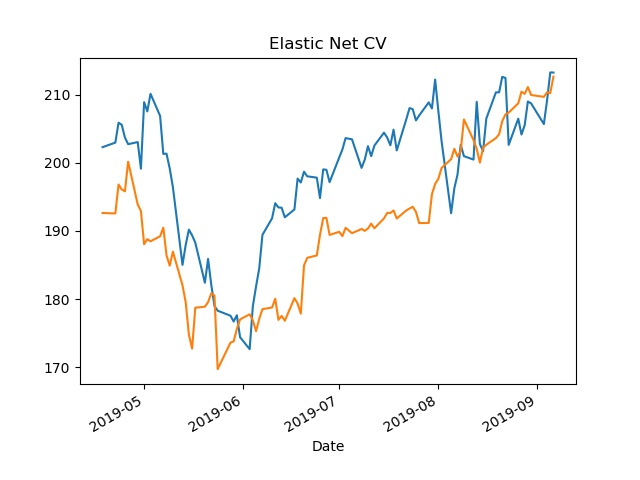
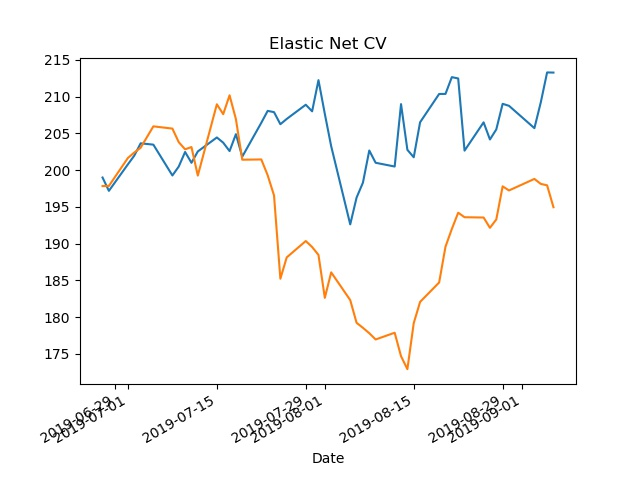
Improve training results
Changes:
- Assign the next day's Adj Price as a label instead of one from the
    future

diff --git a/comparison.py b/comparison.py
@@ -9,6 +9,7 @@ from sklearn.kernel_ridge import KernelRidge
 from sklearn.neighbors import KNeighborsRegressor
 from sklearn.model_selection import train_test_split
 from sklearn.metrics import mean_absolute_error, mean_squared_error
+from operator import itemgetter
 
 df = pd.read_csv('./data/AAPL.csv', index_col='Date', parse_dates=True)
 
@@ -50,43 +51,24 @@ df_regularized.dropna(inplace=True)
 # plt.legend()
 # plt.show()
 
-# Data for forecast:
-forecast_rows = math.ceil(0.01 * len(df_regularized))
-# print('\nTest rows: ', forecast_rows, ' out of: ', len(df_regularized))
-
+DAYS_TO_FORECAST = 50  # Last N days to predict based on historical data
 FORECASTING_COLUMN = 'Adj Close'
-df_regularized['label'] = df_regularized[FORECASTING_COLUMN].shift(-forecast_rows)
+df_regularized['label'] = df_regularized[FORECASTING_COLUMN].shift(-1)
 
-# Remove empty values after shifting the column data
-df_regularized_forecast = df_regularized.copy()
+df_regularized_train = df_regularized.copy()
+df_regularized_train.dropna(inplace=True)
 
-# Display the head
-# print('df_regularized:\n', df_regularized.head())
-
-# drop - returns all columns except specified ones in the list
-X = np.array(df_regularized.drop(['label'], 'columns'))
+X = np.array(df_regularized_train.drop(['label'], 'columns'))
 # Rescale X for regression
 X = scale(X)
-X = X[:-forecast_rows]
-X_forecast = X[-forecast_rows:]
+X = X[:-DAYS_TO_FORECAST]
+y = np.array(df_regularized_train['label'][:-DAYS_TO_FORECAST])
 
-df_regularized.dropna(inplace=True)
-
-# Assign labels
-y = np.array(df_regularized['label'])
-
-# Display first 10 Xs (independent variable) and ys (dependent variable)
-# print('X: ', X[:40])
-# print('y: ', y[:10])
-# print('df_regularized:\n', df_regularized.head())
+# Prepare data for forecasting
+X_forecast = X[-DAYS_TO_FORECAST:]
 
 # Split data into train & test
 X_train, X_test, y_train, y_test = train_test_split(X, y, test_size=.1)
-
-# Verify the data
-# print('X train: ', X_train.shape, X_train[:10])
-# print('is X train finite: ', np.isfinite(X_train).all())
-# print('is y train finite: ', np.isfinite(y_train).all())
 
 models_summary = []
 
@@ -94,23 +76,23 @@ models_summary = []
 def evaluate_model(model_name, model):
     model.fit(X_train, y_train)
 
-    # Display confidence
+    # Get confidence
     model_confidence = model.score(X_test, y_test)
 
-    # Prediction
+    # Get forecast
     y_forecast = model.predict(X_forecast)
 
     # Assign default NaN predictions
-    model_df_regularized_forecast = df_regularized_forecast.copy()
+    model_df_regularized_forecast = df_regularized.copy()
     model_df_regularized_forecast['Forecast'] = np.nan
 
     for idx, y_f in enumerate(y_forecast):
-        model_df_regularized_forecast.iloc[-forecast_rows + idx] = list(
-            model_df_regularized_forecast.drop('Forecast', 'columns').iloc[-forecast_rows + idx].values) + [y_f]
+        model_df_regularized_forecast.iloc[-DAYS_TO_FORECAST + idx] = list(
+            model_df_regularized_forecast.drop('Forecast', 'columns').iloc[-DAYS_TO_FORECAST + idx].values) + [y_f]
 
     # Add last n entries - forecast rows
-    expected_data = model_df_regularized_forecast.iloc[-forecast_rows:]['Adj Close']
-    forecast_data = model_df_regularized_forecast.iloc[-forecast_rows:]['Forecast']
+    expected_data = model_df_regularized_forecast.iloc[-DAYS_TO_FORECAST:]['Adj Close']
+    forecast_data = model_df_regularized_forecast.iloc[-DAYS_TO_FORECAST:]['Forecast']
 
     model_summary = {
         'confidence': model_confidence * 100,
@@ -152,13 +134,24 @@ models_summary.append(evaluate_model('Orthogonal Matching Pursuit', OrthogonalMa
 
 models_summary.append(evaluate_model('Orthogonal Matching Pursuit CV', OrthogonalMatchingPursuitCV()))
 
-for model_summary in models_summary:
+print('Models sorted by confidence')
+for model_summary in sorted(models_summary, key=itemgetter('confidence'), reverse=True):
     print('| {} | {}% | {} | {} | {} |'.format(
         model_summary['name'],
-        round(model_summary['confidence'], 2),
+        round(model_summary['confidence'], 4),
         round(model_summary['mae'], 3),
         round(model_summary['mse'], 3),
         round(model_summary['rmse'], 3),
+    ))
+
+print('Models sorted by RSME')
+for model_summary in sorted(models_summary, key=itemgetter('rmse')):
+    print('| {} | {}% | {} | {} | {} |'.format(
+        model_summary['name'],
+        round(model_summary['confidence'], 4),
+        round(model_summary['mae'], 3),
+        round(model_summary['mse'], 3),
+        round(model_summary['rmse'], 6),
     ))
 
     plt.figure()

diff --git a/README.md b/README.md
@@ -14,19 +14,37 @@ Steps:
 
 ### Comparison
 
+#### Models sorted by confidence
+
 | Method | Confidence | Mean Absolute Error | Mean Squared Error | Root Mean Squared Error |
 | :---: | ---: | ---: | ---: | ---: |
-| Linear | 96.54% | 9.267 | 114.54 | 3.044 |
-| KNN | 98.39% | 3.717 | 23.151 | 1.928 |
-| Lasso | 96.55% | 9.567 | 122.002 | 3.093 |
-| Ridge | 96.54% | 9.261 | 114.403 | 3.043 |
-| Ridge CV | 96.54% | 9.261 | 114.403 | 3.043 |
-| Kernel Ridge | 60.8% | 41.406 | 1762.293 | 6.435 |
-| Elastic Net | 96.47% | 8.639 | 100.439 | 2.939 |
-| Elastic Net CV | 96.54% | 9.04 | 109.289 | 3.007 |
-| Bayesian Ridge | 96.54% | 9.253 | 114.217 | 3.042 |
-| Orthogonal Matching Pursuit | 96.4% | 18.776 | 448.374 | 4.333 |
-| Orthogonal Matching Pursuit CV | 96.54% | 9.268 | 114.556 | 3.044 |
+| Orthogonal Matching Pursuit | 99.9644% | 12.944 | 251.349 | 3.598 |
+| Orthogonal Matching Pursuit CV | 99.9644% | 12.944 | 251.362 | 3.598 |
+| Linear | 99.9641% | 12.898 | 249.516 | 3.591 |
+| Bayesian Ridge | 99.9641% | 12.898 | 249.513 | 3.591 |
+| Ridge CV | 99.9641% | 12.897 | 249.494 | 3.591 |
+| Ridge | 99.9641% | 12.892 | 249.295 | 3.591 |
+| Elastic Net CV | 99.9639% | 12.876 | 248.647 | 3.588 |
+| Lasso | 99.9634% | 13.116 | 259.209 | 3.622 |
+| KNN | 99.7029% | 13.293 | 254.76 | 3.646 |
+| Elastic Net | 99.4877% | 12.879 | 218.512 | 3.589 |
+| Kernel Ridge | 71.8265% | 40.886 | 1778.924 | 6.394 |
+
+#### Models sorted by RMSE
+
+| Method | Confidence | Mean Absolute Error | Mean Squared Error | Root Mean Squared Error |
+| :---: | ---: | ---: | ---: | ---: |
+| Elastic Net CV | 99.9639% | 12.876 | 248.647 | 3.588268 |
+| Elastic Net | 99.4877% | 12.879 | 218.512 | 3.588714 |
+| Ridge | 99.9641% | 12.892 | 249.295 | 3.590572 |
+| Ridge CV | 99.9641% | 12.897 | 249.494 | 3.591279 |
+| Bayesian Ridge | 99.9641% | 12.898 | 249.513 | 3.591345 |
+| Linear | 99.9641% | 12.898 | 249.516 | 3.591357 |
+| Orthogonal Matching Pursuit CV | 99.9644% | 12.944 | 251.362 | 3.597757 |
+| Orthogonal Matching Pursuit | 99.9644% | 12.944 | 251.349 | 3.597776 |
+| Lasso | 99.9634% | 13.116 | 259.209 | 3.621619 |
+| KNN | 99.7029% | 13.293 | 254.76 | 3.646022 |
+| Kernel Ridge | 71.8265% | 40.886 | 1778.924 | 6.394188 |
 
 #### Moving Average for Adj Close
 
